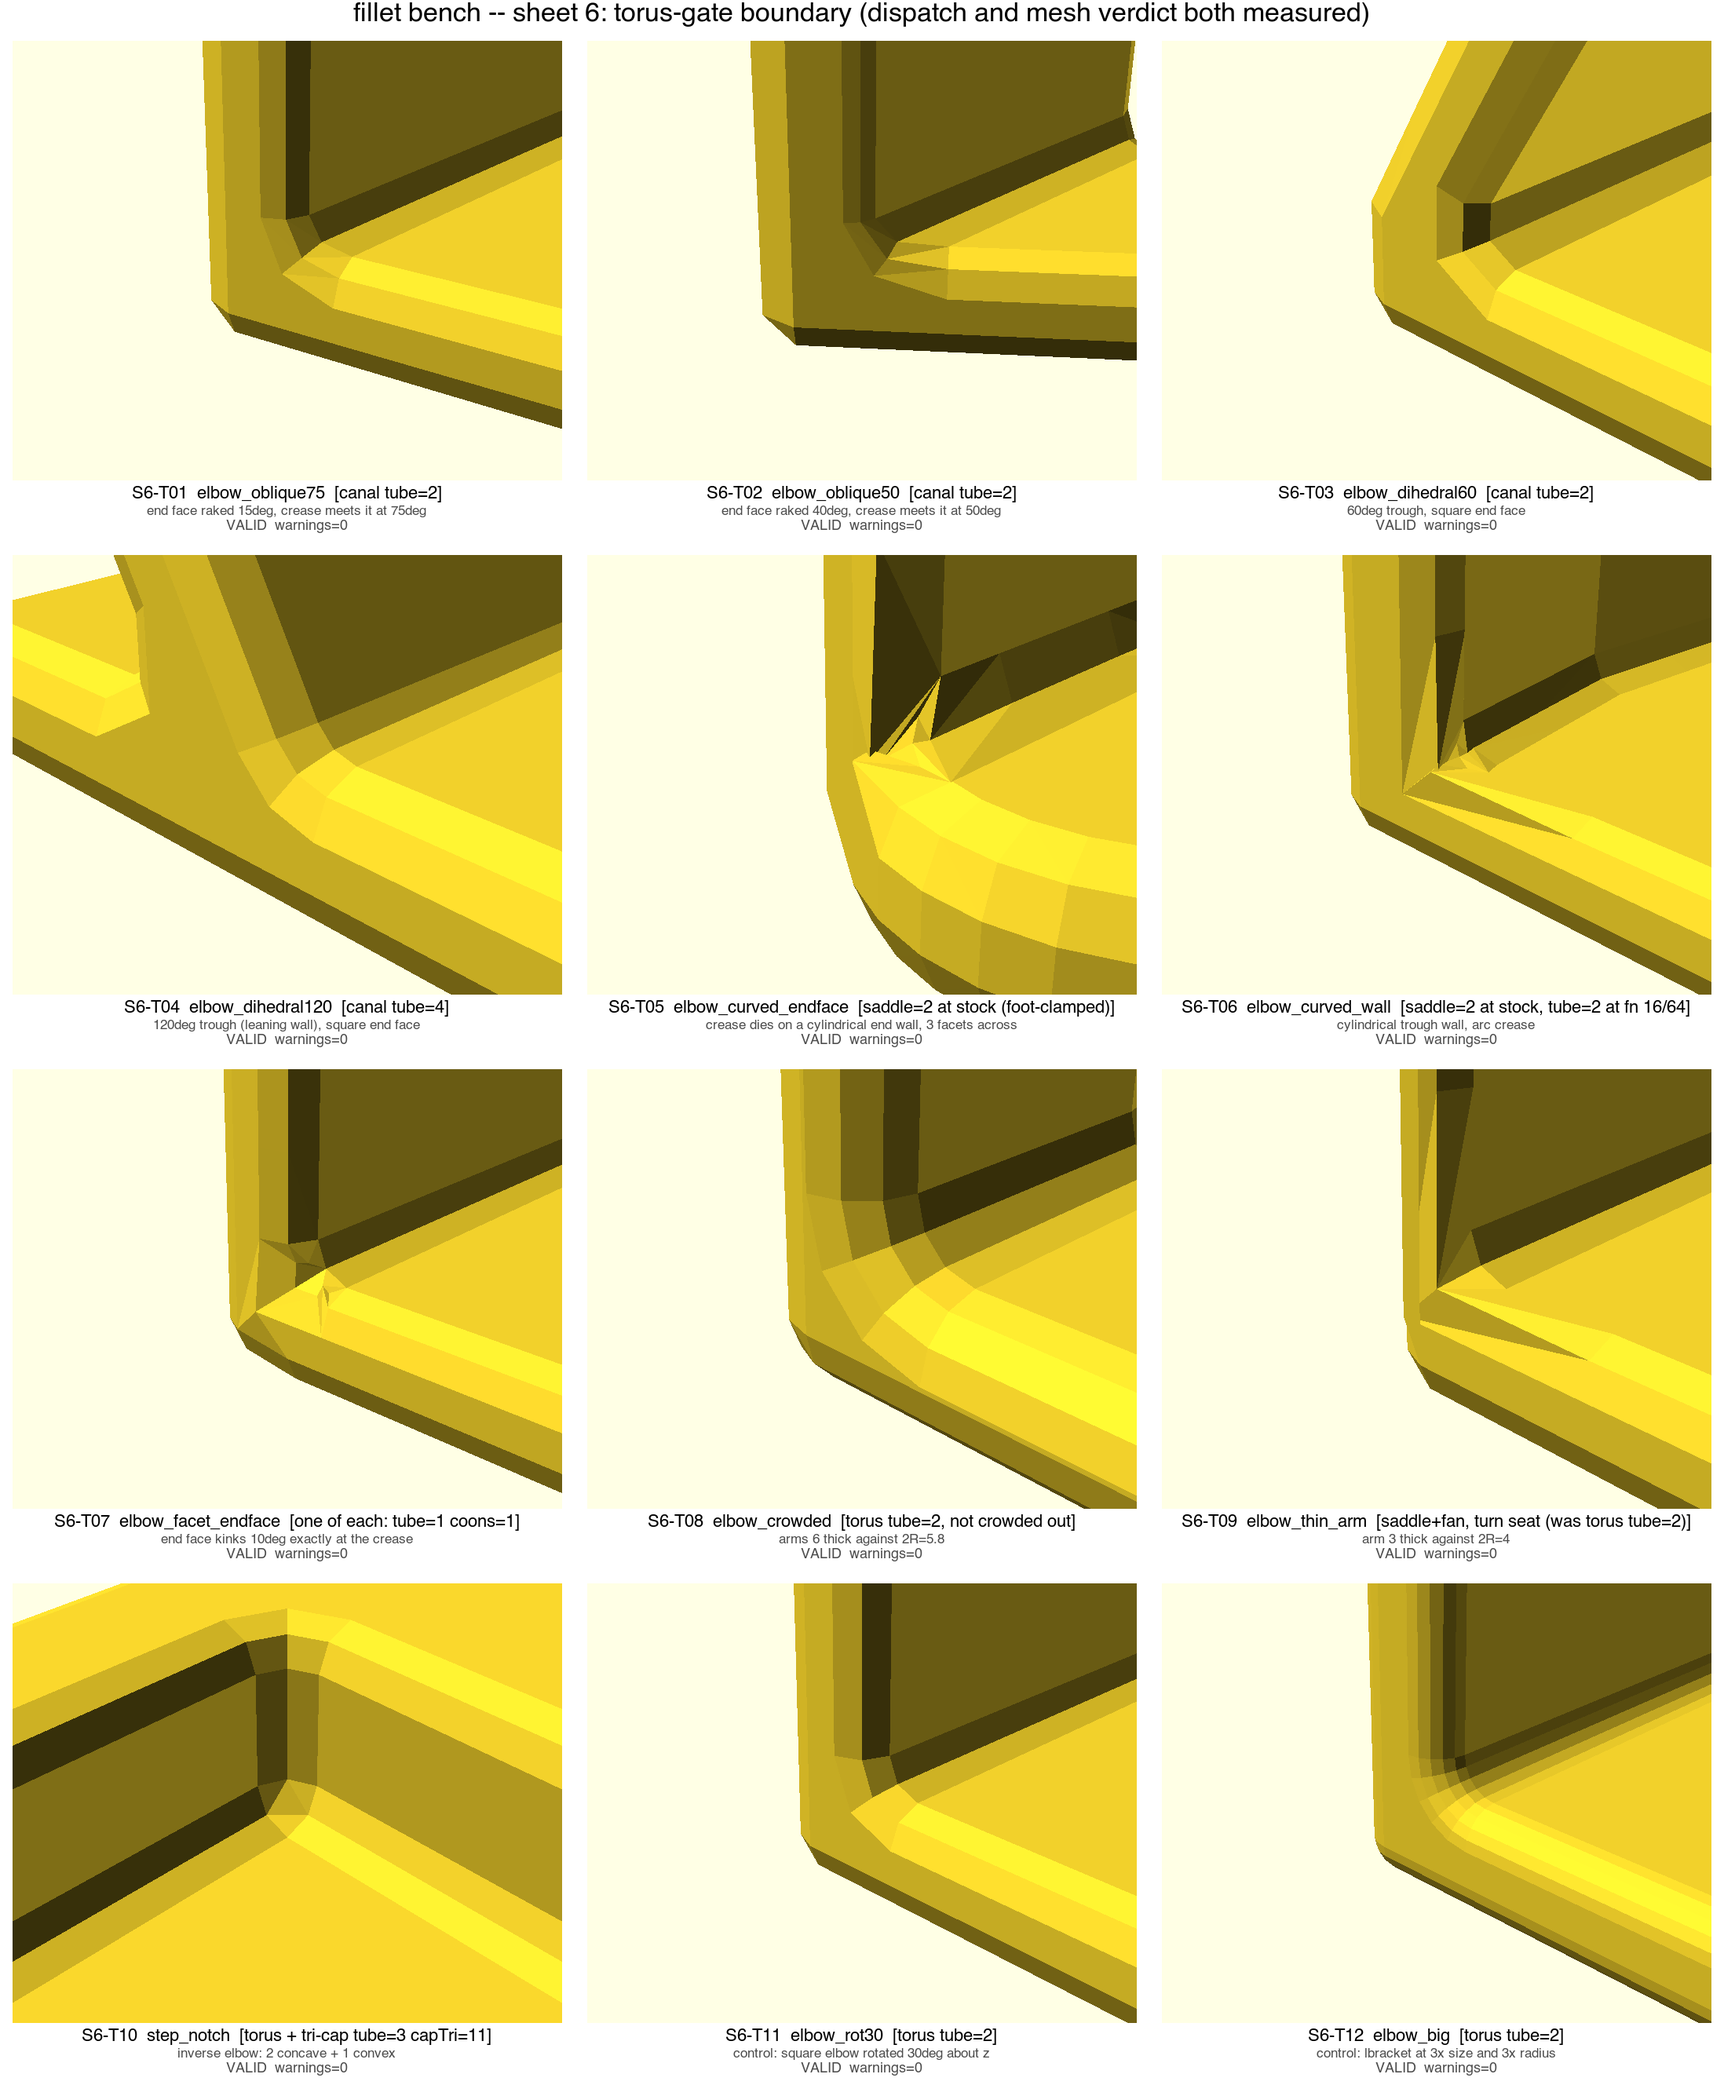
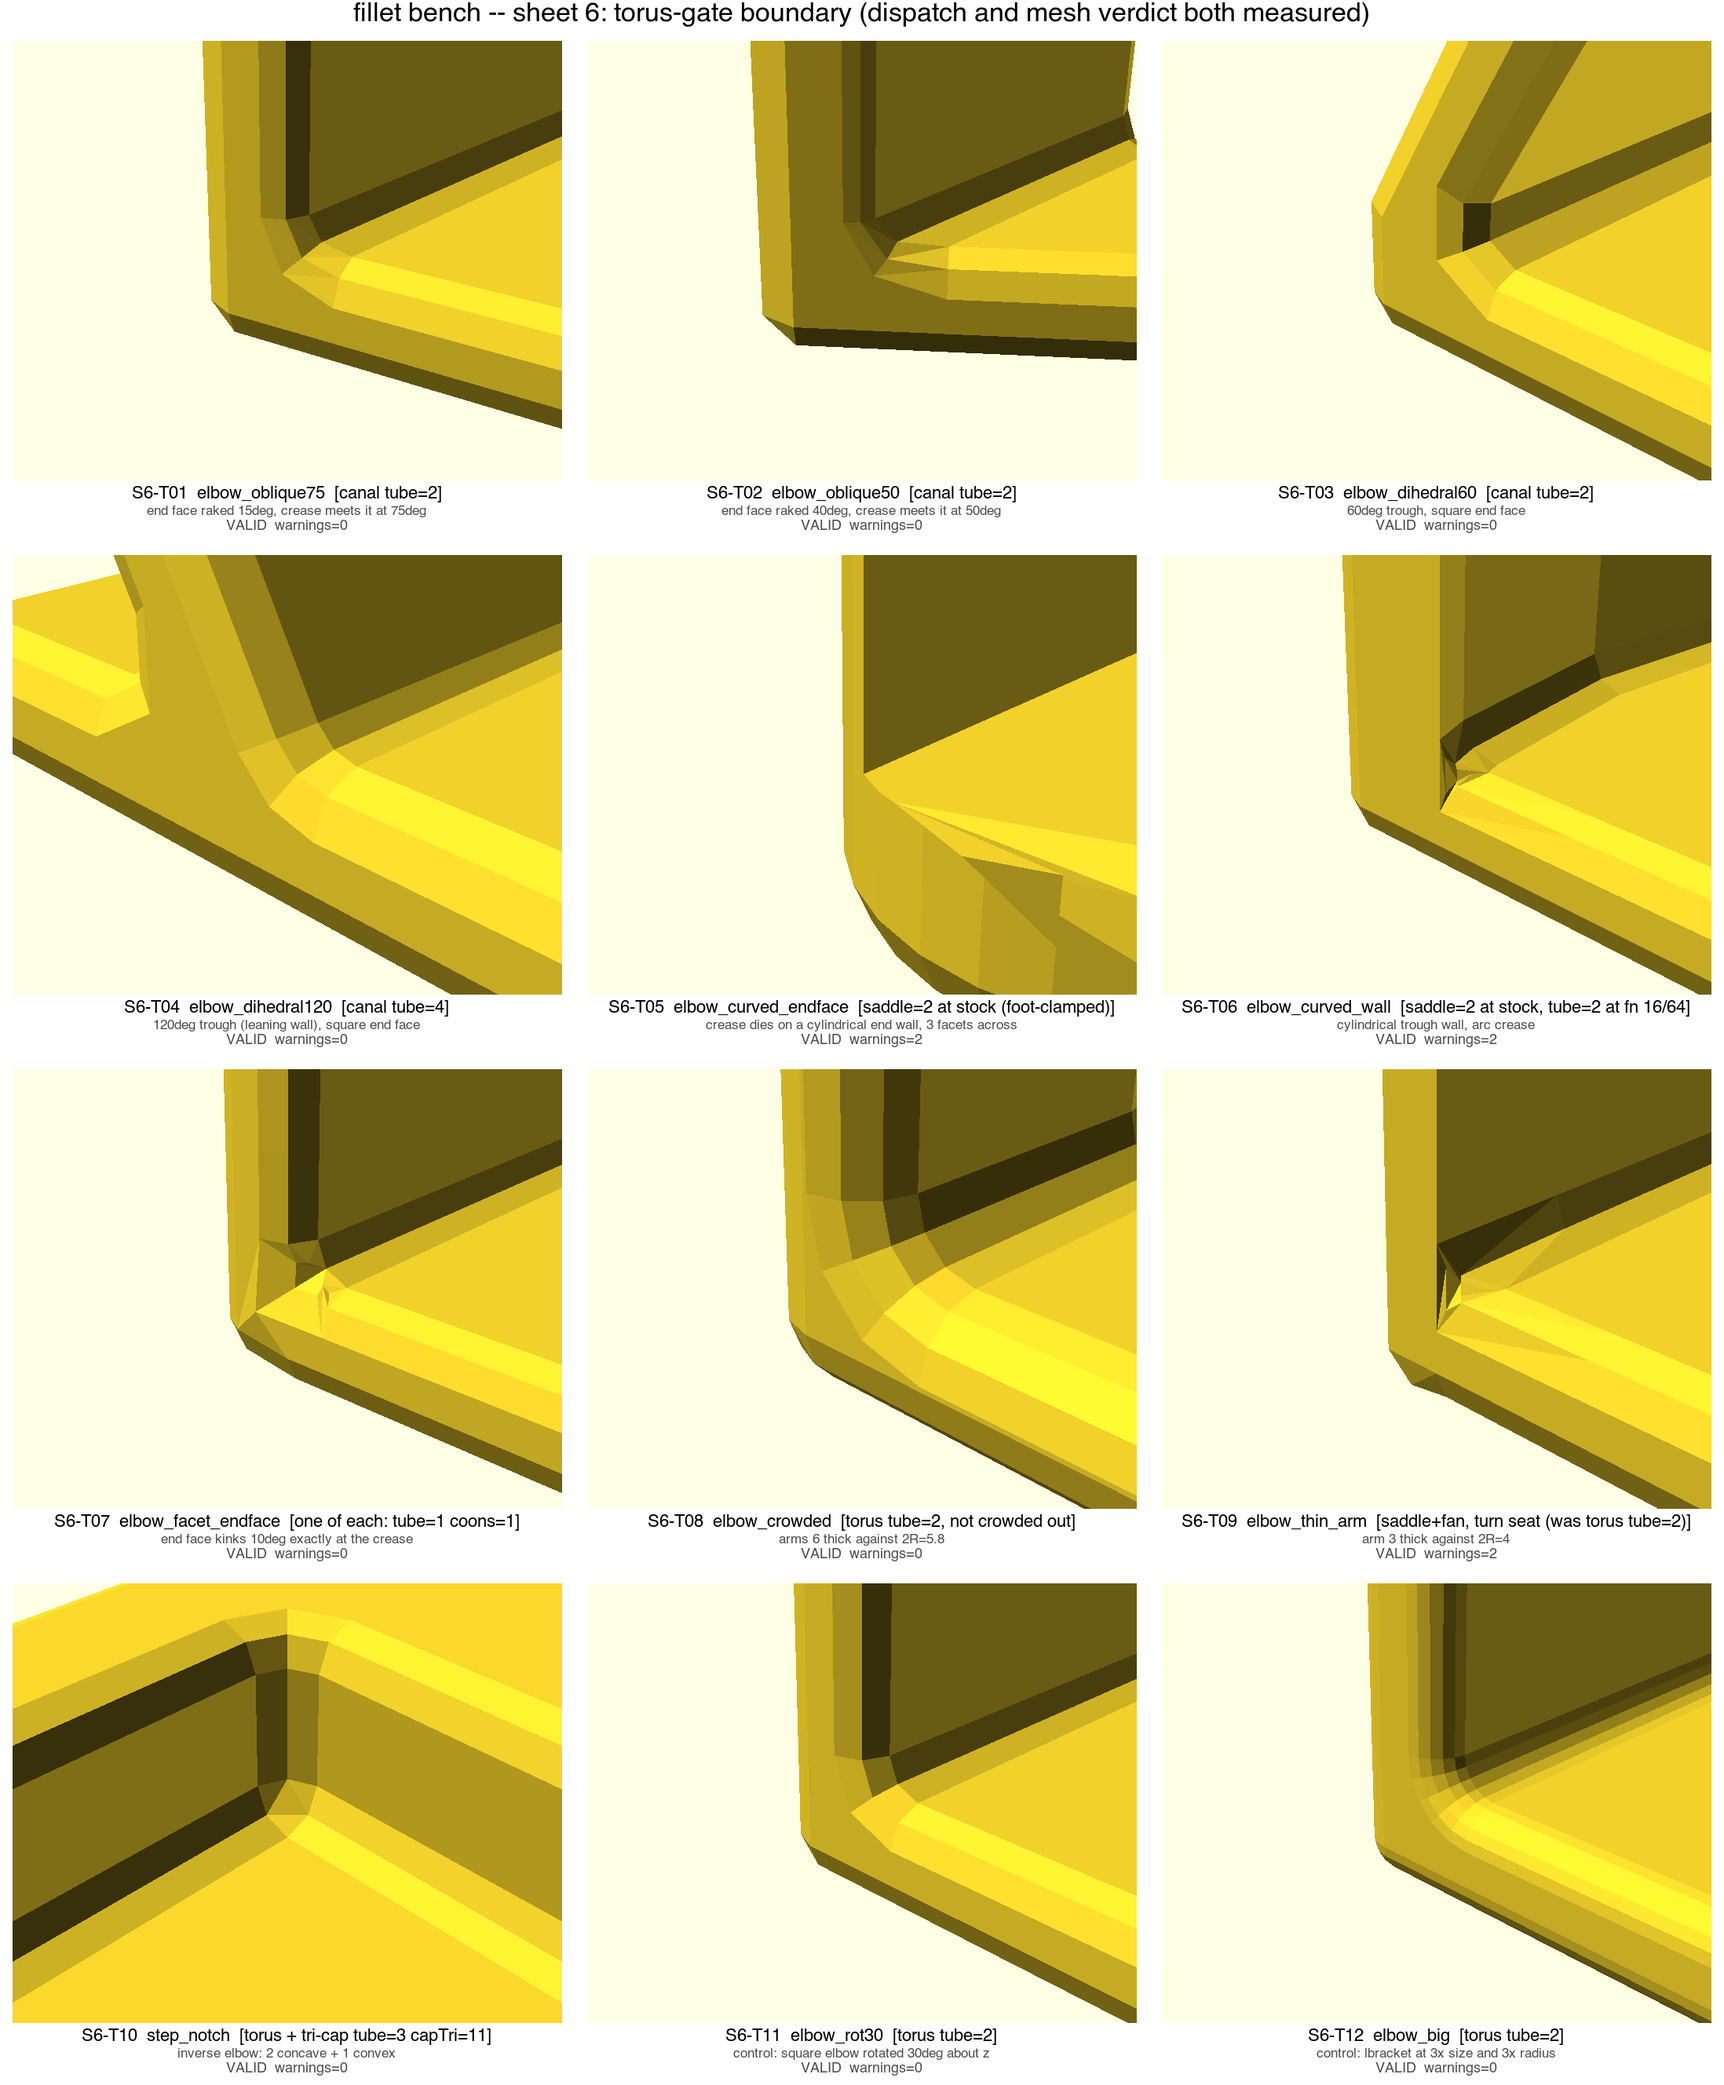
fillet-bench: regenerate sheets after the size gate
Saved a named copy, sheets-1-overround-gate.pdf, so this state stays
comparable after later passes.

Changed region(s): [[0.4645, 0.25, 0.6812, 0.4688], [0.8051, 0.5, 0.929, 0.6875], [0.8051, 0.25, 0.898, 0.4062]]

diff --git a/fillet-bench/sheets/INDEX.md b/fillet-bench/sheets/INDEX.md
@@ -43,15 +43,15 @@ Generated by `sheet.sh`. Tile ids are stable while expect.txt keeps its order.
 | S4-T01 | shallow_crease | (defaults) | VALID v=722 e=2154 f=1436 comp=2 bnd=0 nonman=0 nmvert=0 chi=4 genus=0 tol=1e-06 smallest=800f 120x40x34.6mm at (60,35,16.408) | 0 |
 | S4-T02 | elbow_big | (defaults) | VALID v=596 e=1782 f=1188 comp=1 bnd=0 nonman=0 nmvert=0 chi=2 genus=0 tol=1e-06 | 0 |
 | S4-T03 | elbow_crowded | (defaults) | VALID v=234 e=696 f=464 comp=1 bnd=0 nonman=0 nmvert=0 chi=2 genus=0 tol=1e-06 | 0 |
-| S4-T04 | elbow_curved_endface | (defaults) | VALID v=246 e=732 f=488 comp=1 bnd=0 nonman=0 nmvert=0 chi=2 genus=0 tol=1e-06 | 0 |
-| S4-T05 | elbow_curved_wall | (defaults) | VALID v=252 e=750 f=500 comp=1 bnd=0 nonman=0 nmvert=0 chi=2 genus=0 tol=1e-06 | 0 |
+| S4-T04 | elbow_curved_endface | (defaults) | VALID v=217 e=645 f=430 comp=1 bnd=0 nonman=0 nmvert=0 chi=2 genus=0 tol=1e-06 | 2 |
+| S4-T05 | elbow_curved_wall | (defaults) | VALID v=238 e=708 f=472 comp=1 bnd=0 nonman=0 nmvert=0 chi=2 genus=0 tol=1e-06 | 2 |
 | S4-T06 | elbow_dihedral120 | (defaults) | VALID v=256 e=762 f=508 comp=1 bnd=0 nonman=0 nmvert=0 chi=2 genus=0 tol=1e-06 | 0 |
 | S4-T07 | elbow_dihedral60 | (defaults) | VALID v=236 e=702 f=468 comp=1 bnd=0 nonman=0 nmvert=0 chi=2 genus=0 tol=1e-06 | 0 |
 | S4-T08 | elbow_facet_endface | (defaults) | VALID v=247 e=735 f=490 comp=1 bnd=0 nonman=0 nmvert=0 chi=2 genus=0 tol=1e-06 | 0 |
 | S4-T09 | elbow_oblique50 | (defaults) | VALID v=208 e=618 f=412 comp=1 bnd=0 nonman=0 nmvert=0 chi=2 genus=0 tol=1e-06 | 0 |
 | S4-T10 | elbow_oblique75 | (defaults) | VALID v=238 e=708 f=472 comp=1 bnd=0 nonman=0 nmvert=0 chi=2 genus=0 tol=1e-06 | 0 |
 | S4-T11 | elbow_rot30 | (defaults) | VALID v=239 e=711 f=474 comp=1 bnd=0 nonman=0 nmvert=0 chi=2 genus=0 tol=1e-06 | 0 |
-| S4-T12 | elbow_thin_arm | (defaults) | VALID v=212 e=630 f=420 comp=1 bnd=0 nonman=0 nmvert=0 chi=2 genus=0 tol=1e-06 | 0 |
+| S4-T12 | elbow_thin_arm | (defaults) | VALID v=184 e=546 f=364 comp=1 bnd=0 nonman=0 nmvert=0 chi=2 genus=0 tol=1e-06 | 2 |
 
 ## Corner dispatch (sheet 5)
 
@@ -92,11 +92,11 @@ column comes from an exact ASCII STL at weld 1e-6.
 | S6-T02 | elbow_oblique50 | end face raked 40deg, crease meets it at 50deg | canal tube=2 | `tube=2 capTri=8 cap=0 coons=0 saddle=0 flat=0 fan=0 weld=46 none=0` | VALID v=208 e=618 f=412 comp=1 bnd=0 nonman=0 nmvert=0 chi=2 genus=0 tol=1e-06 | `40.855,-29.820,30.398,6,5.035,6` |
 | S6-T03 | elbow_dihedral60 | 60deg trough, square end face | canal tube=2 | `tube=2 capTri=10 cap=0 coons=0 saddle=0 flat=0 fan=0 weld=52 none=0` | VALID v=236 e=702 f=468 comp=1 bnd=0 nonman=0 nmvert=0 chi=2 genus=0 tol=1e-06 | `40.855,-34.855,30.398,6,0,6` |
 | S6-T04 | elbow_dihedral120 | 120deg trough (leaning wall), square end face | canal tube=4 | `tube=4 capTri=12 cap=0 coons=0 saddle=0 flat=0 fan=0 weld=48 none=0` | VALID v=256 e=762 f=508 comp=1 bnd=0 nonman=0 nmvert=0 chi=2 genus=0 tol=1e-06 | `46.180,-22.180,21.526,24,0,6` |
-| S6-T05 | elbow_curved_endface | crease dies on a cylindrical end wall, 3 facets across | saddle=2 at stock (foot-clamped) | `tube=0 capTri=2 cap=0 coons=0 saddle=2 flat=0 fan=0 weld=72 none=0` | VALID v=246 e=732 f=488 comp=1 bnd=0 nonman=0 nmvert=0 chi=2 genus=0 tol=1e-06 | `25.012,-18.132,19.308,6,0.88,6` |
-| S6-T06 | elbow_curved_wall | cylindrical trough wall, arc crease | saddle=2 at stock, tube=2 at fn 16/64 | `tube=0 capTri=10 cap=0 coons=0 saddle=2 flat=0 fan=0 weld=56 none=0` | VALID v=252 e=750 f=500 comp=1 bnd=0 nonman=0 nmvert=0 chi=2 genus=0 tol=1e-06 | `42.765,-34.855,30.398,7.91,0,6` |
+| S6-T05 | elbow_curved_endface | crease dies on a cylindrical end wall, 3 facets across | saddle=2 at stock (foot-clamped) | `tube=0 capTri=0 cap=2 coons=0 saddle=0 flat=2 fan=0 weld=62 none=0` | VALID v=217 e=645 f=430 comp=1 bnd=0 nonman=0 nmvert=0 chi=2 genus=0 tol=1e-06 | `25.012,-18.132,19.308,6,0.88,6` |
+| S6-T06 | elbow_curved_wall | cylindrical trough wall, arc crease | saddle=2 at stock, tube=2 at fn 16/64 | `tube=0 capTri=8 cap=2 coons=0 saddle=2 flat=0 fan=0 weld=48 none=0` | VALID v=238 e=708 f=472 comp=1 bnd=0 nonman=0 nmvert=0 chi=2 genus=0 tol=1e-06 | `42.765,-34.855,30.398,7.91,0,6` |
 | S6-T07 | elbow_facet_endface | end face kinks 10deg exactly at the crease | one of each: tube=1 coons=1 | `tube=1 capTri=10 cap=0 coons=1 saddle=0 flat=0 fan=0 weld=55 none=0` | VALID v=247 e=735 f=490 comp=1 bnd=0 nonman=0 nmvert=0 chi=2 genus=0 tol=1e-06 | `40.855,-34.855,30.398,6,0,6` |
 | S6-T08 | elbow_crowded | arms 6 thick against 2R=5.8 | torus tube=2, not crowded out | `tube=2 capTri=10 cap=0 coons=0 saddle=0 flat=0 fan=0 weld=25 none=0` | VALID v=234 e=696 f=464 comp=1 bnd=0 nonman=0 nmvert=0 chi=2 genus=0 tol=1e-06 | `31.349,-25.349,23.744,6,0,6` |
-| S6-T09 | elbow_thin_arm | arm 3 thick against 2R=4 | saddle+fan, turn seat (was torus tube=2) | `tube=0 capTri=10 cap=0 coons=0 saddle=1 flat=0 fan=1 weld=46 none=0` | VALID v=212 e=630 f=420 comp=1 bnd=0 nonman=0 nmvert=0 chi=2 genus=0 tol=1e-06 | `31.518,-28.518,25.962,3,0,6` |
+| S6-T09 | elbow_thin_arm | arm 3 thick against 2R=4 | saddle+fan, turn seat (was torus tube=2) | `tube=0 capTri=4 cap=2 coons=0 saddle=2 flat=4 fan=0 weld=30 none=0` | VALID v=184 e=546 f=364 comp=1 bnd=0 nonman=0 nmvert=0 chi=2 genus=0 tol=1e-06 | `31.518,-28.518,25.962,3,0,6` |
 | S6-T10 | step_notch | inverse elbow: 2 concave + 1 convex | torus + tri-cap tube=3 capTri=11 | `tube=3 capTri=11 cap=0 coons=0 saddle=0 flat=0 fan=0 weld=50 none=0` | VALID v=246 e=732 f=488 comp=1 bnd=0 nonman=0 nmvert=0 chi=2 genus=0 tol=1e-06 | `51.754,41.754,51.754,20,10,20` |
 | S6-T11 | elbow_rot30 | control: square elbow rotated 30deg about z | torus tube=2 | `tube=2 capTri=10 cap=0 coons=0 saddle=0 flat=0 fan=0 weld=53 none=0` | VALID v=239 e=711 f=474 comp=1 bnd=0 nonman=0 nmvert=0 chi=2 genus=0 tol=1e-06 | `26.837,-4.995,15.421,2.598,1.5,3` |
 | S6-T12 | elbow_big | control: lbracket at 3x size and 3x radius | torus tube=2 | `tube=2 capTri=10 cap=0 coons=0 saddle=0 flat=0 fan=0 weld=52 none=0` | VALID v=596 e=1782 f=1188 comp=1 bnd=0 nonman=0 nmvert=0 chi=2 genus=0 tol=1e-06 | `122.565,-104.565,91.195,18,0,18` |
